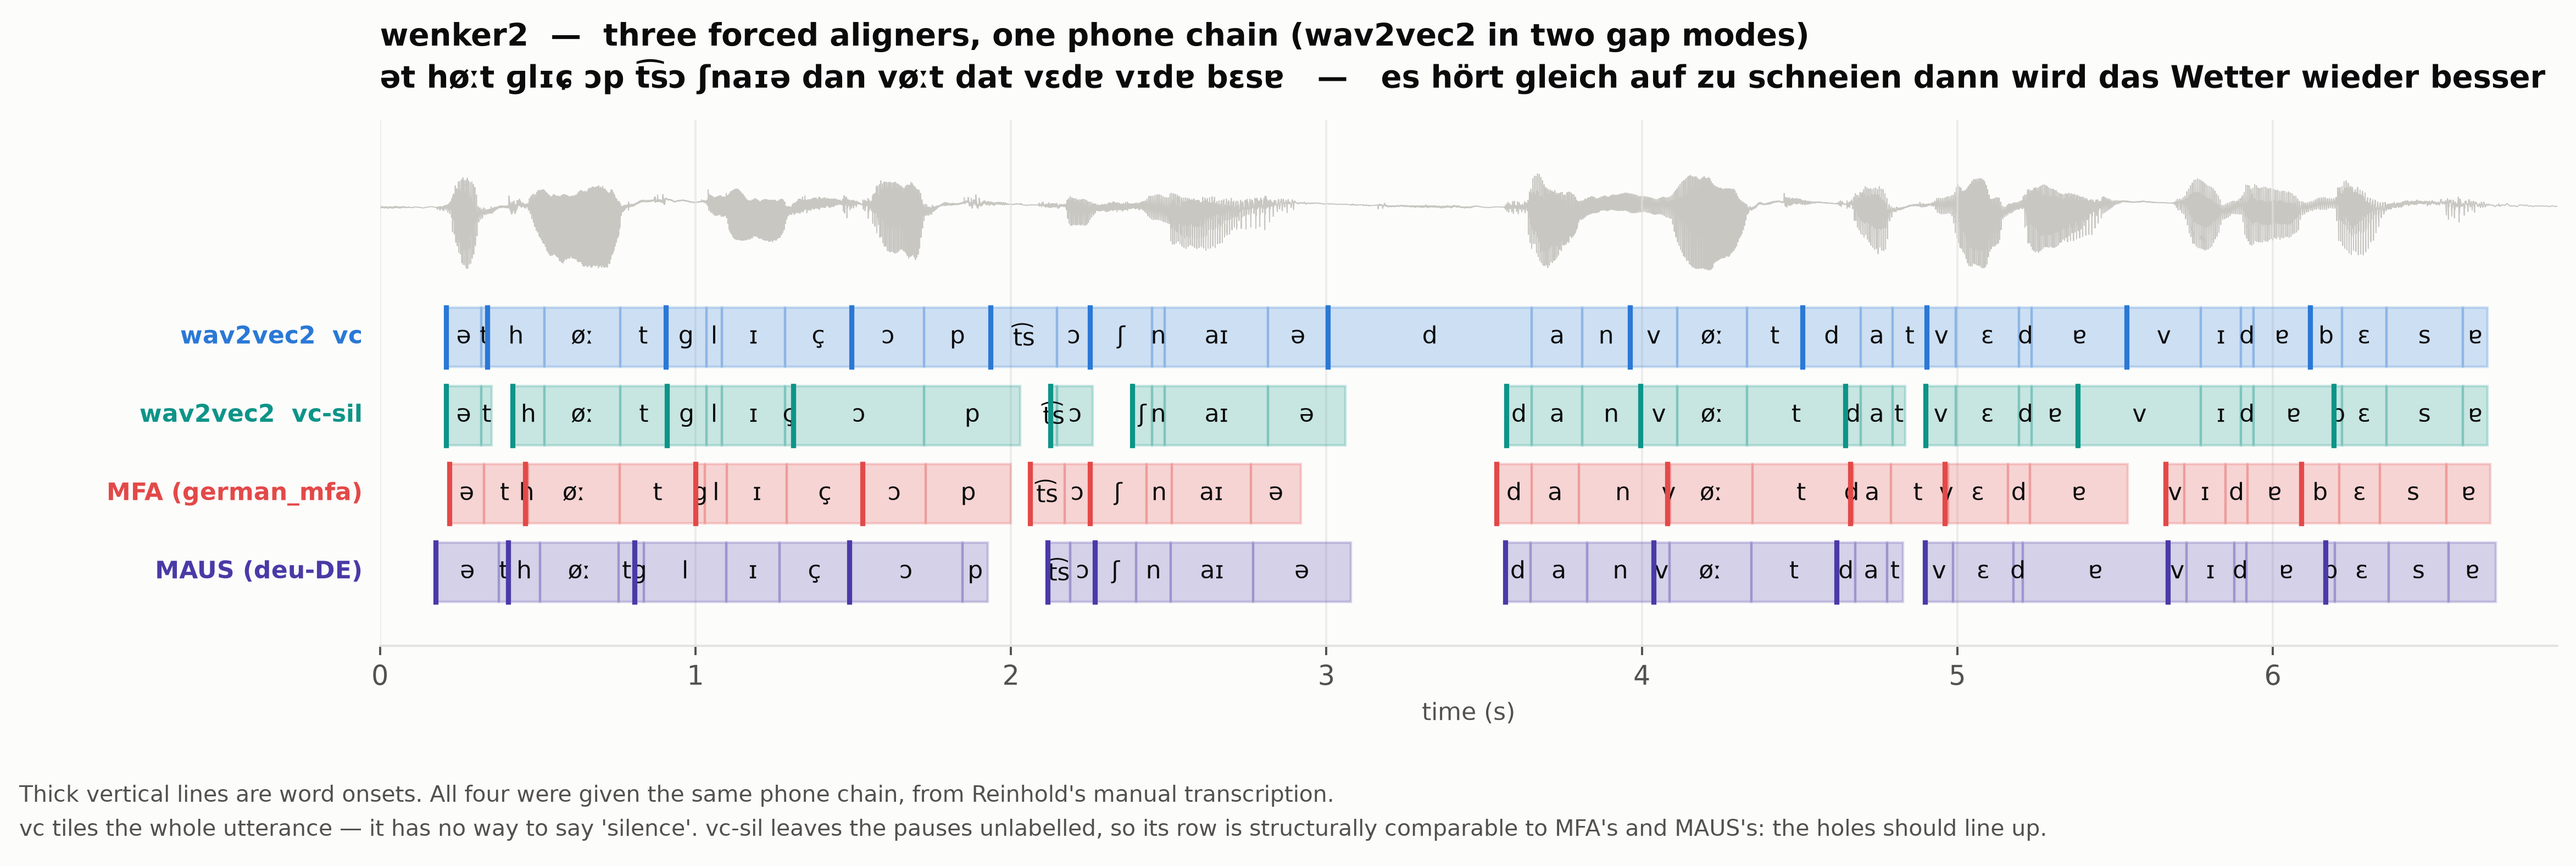
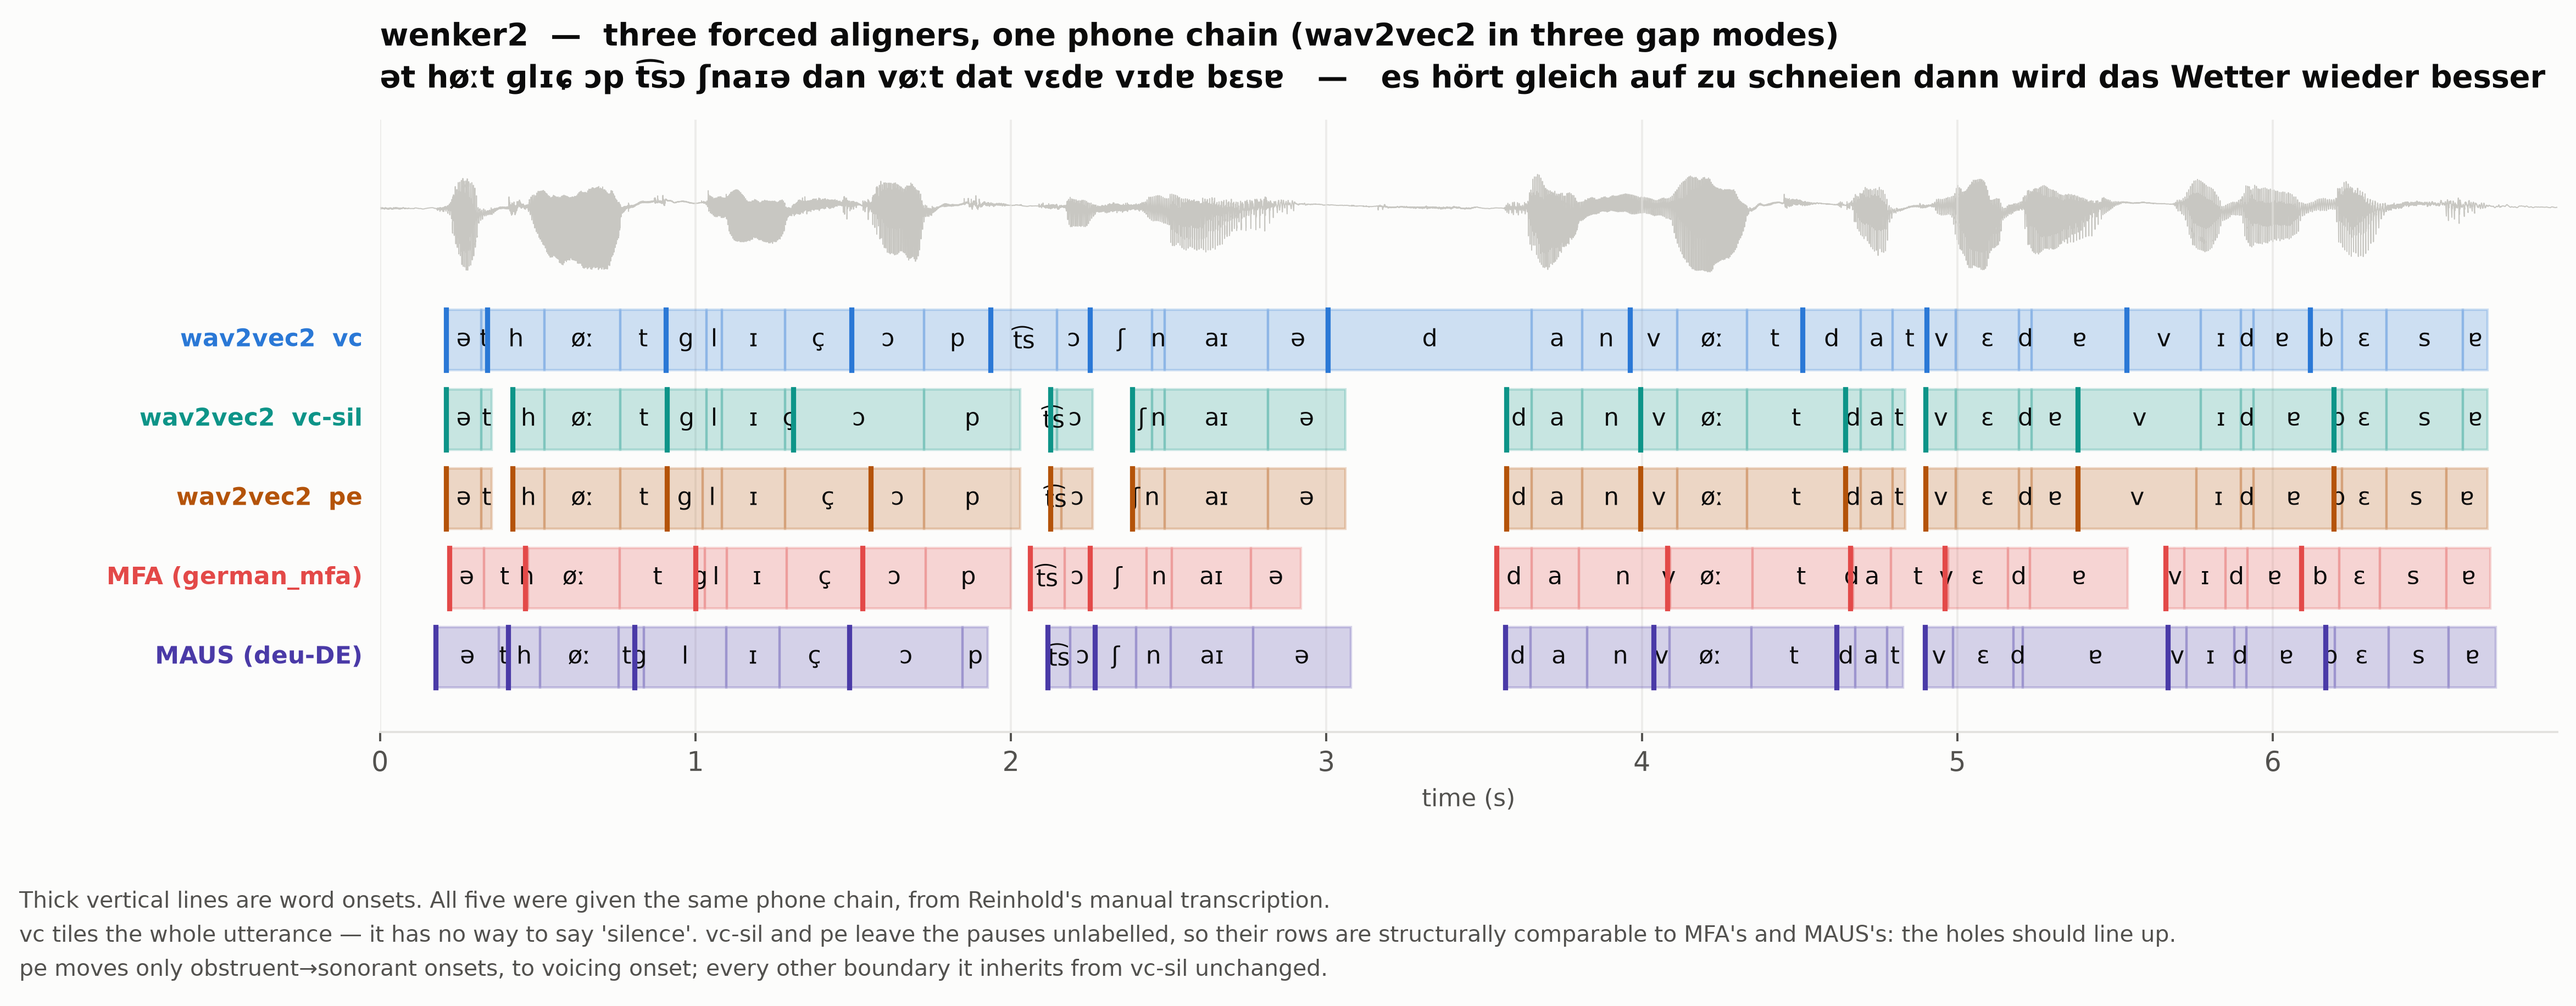
Whole-sentence figures: add the pe row, and stop copying them by hand
The three_systems_* figures — waveform plus every aligner on one phone chain,
for the full sentence and for each of the two prosodic segments — predated
--absorb pe and showed vc, vc-sil, MFA and MAUS only. pe is now a fifth row, in
amber rather than the third red the palette had left, since it sits directly
above MFA.

fig_three() and the stacked two-chunk figure now take their tier stack from one
rows_of() list, so they cannot disagree about what is drawn or where. The point
of the stacked figure is that its panels are comparable; that fails quietly if
the row offsets drift.

The four figures the published README embeds were copied into docs/figures/ by
hand, which is how it twice ended up showing figures older than the aligner that
made them. main() copies them itself now and refuses to run if a source figure
is missing rather than leaving a stale one in place. Adds the two-segment figure
to the README, which had no whole-sentence segmented view before.

diff --git a/README.md b/README.md
@@ -367,9 +367,14 @@ among others.
 
 ![three aligners on one chain](docs/figures/three_aligners.png)
 
-Four rows, three aligners — wav2vec2 appears twice because the gap rule changes
-what it can express. Give all of them the **same phone chain**, or you are
-measuring three pronunciation dictionaries rather than three aligners.
+Five rows, three aligners — wav2vec2 appears three times because the gap rule
+changes what it can express. Give all of them the **same phone chain**, or you
+are measuring three pronunciation dictionaries rather than three aligners.
+
+The same sentence cut into its two prosodic segments and aligned independently,
+on a shared time scale so one second is the same width in both panels:
+
+![both segments, five systems](docs/figures/three_aligners_chunks.png)
 
 **Look at where the rows have holes.** MFA and MAUS model silence explicitly, so
 a pause is an interval belonging to nobody. `vc` cannot say "silence" at all — its
